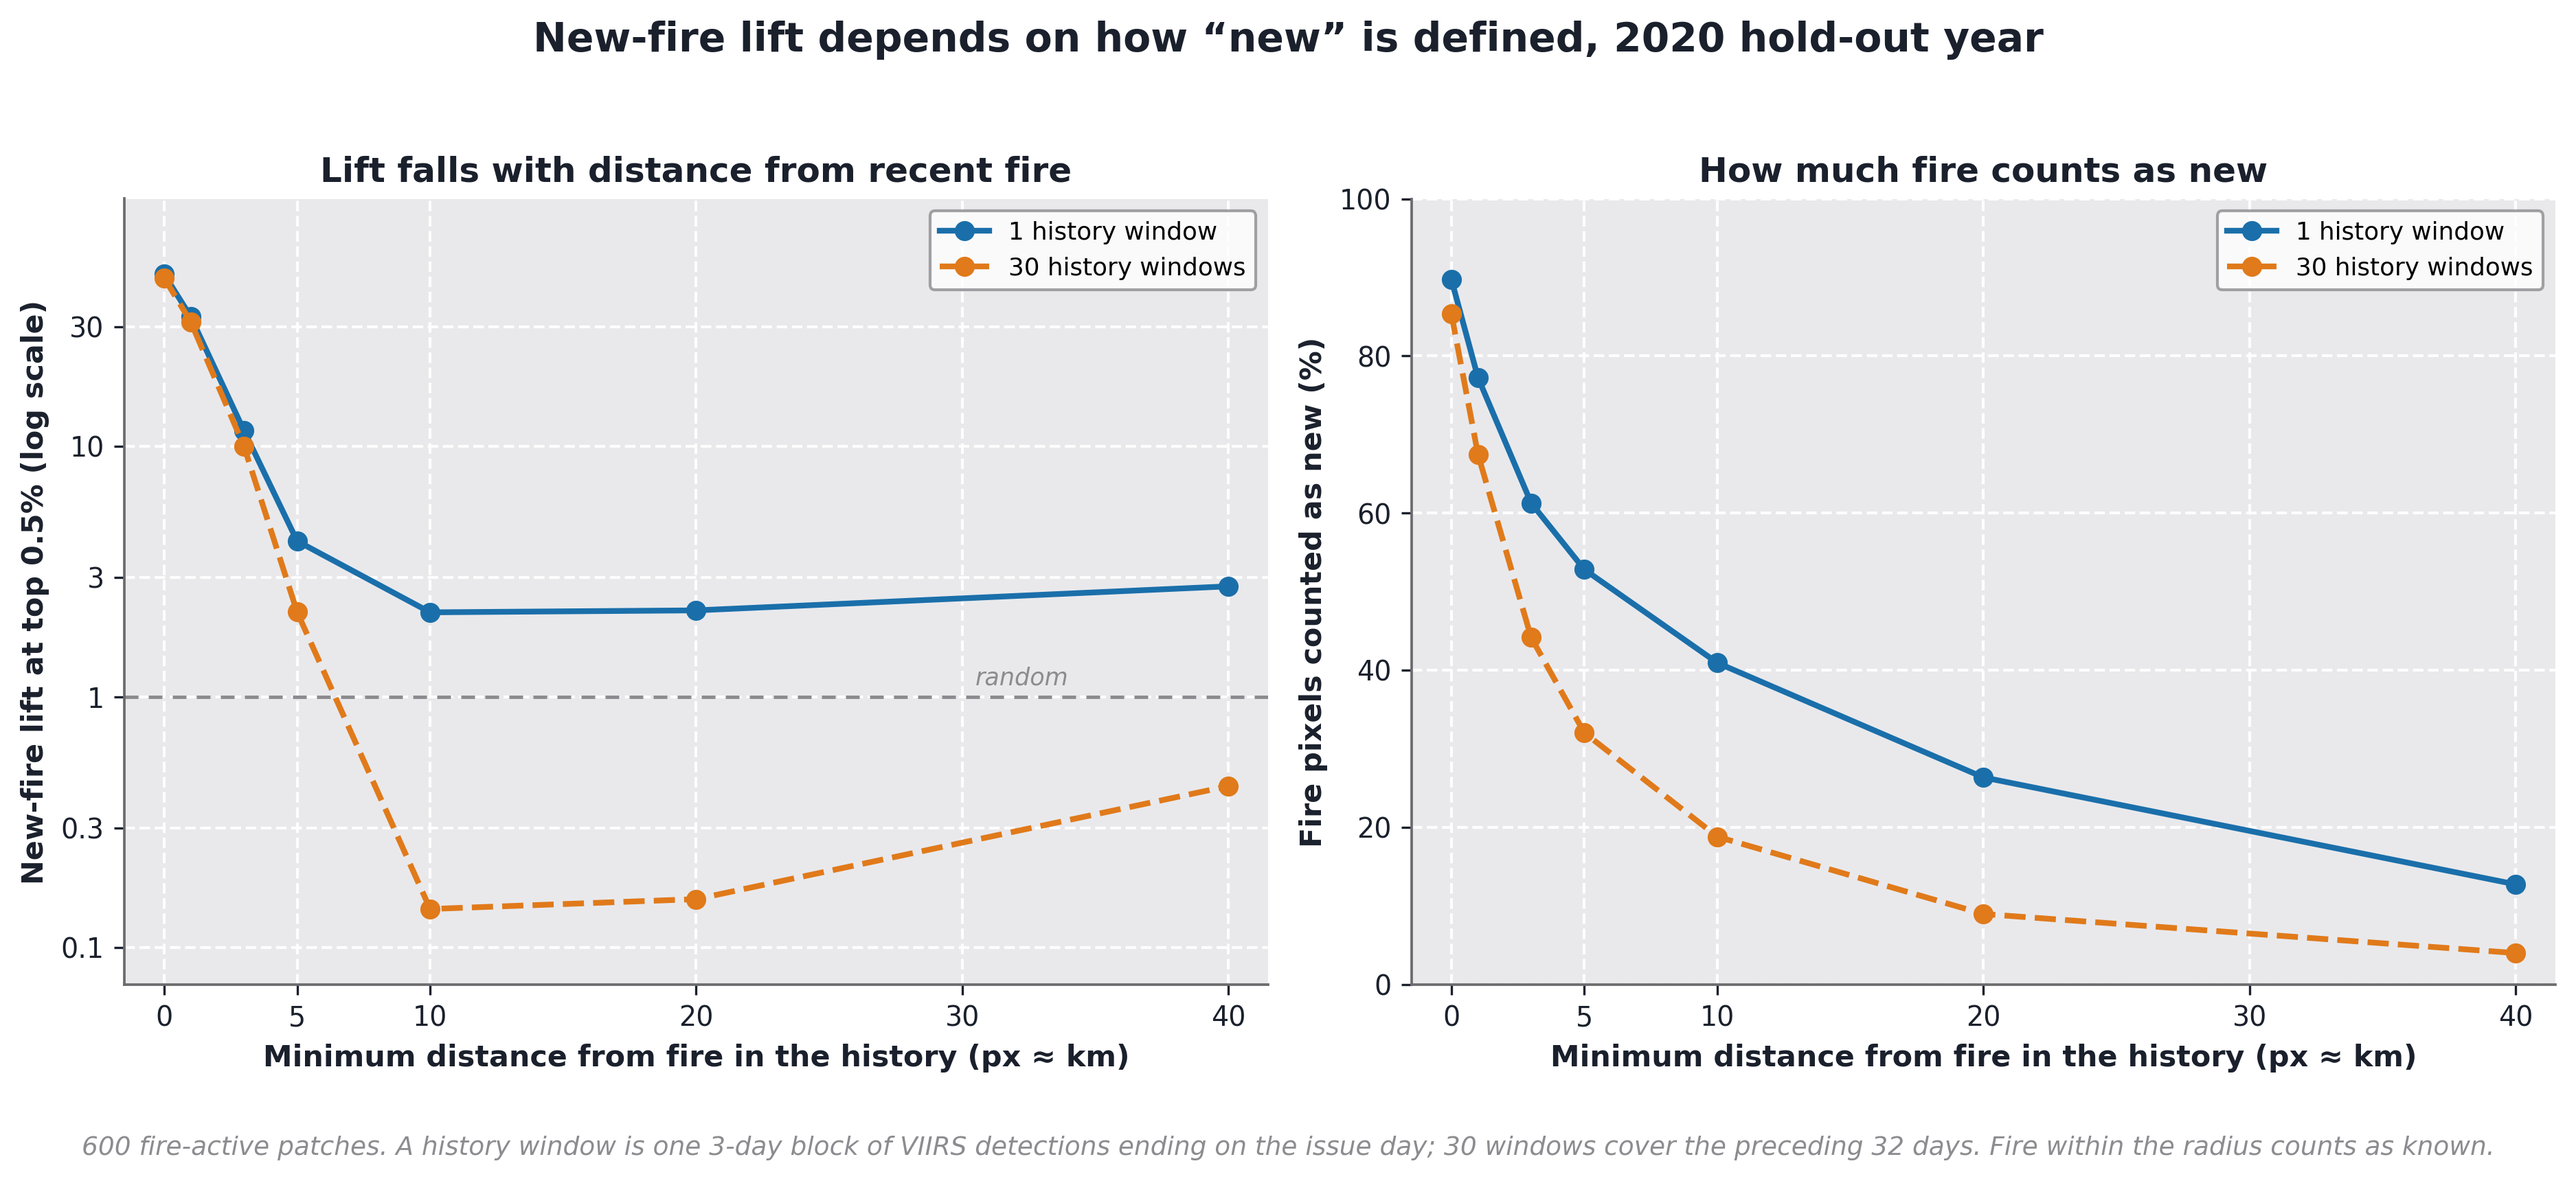
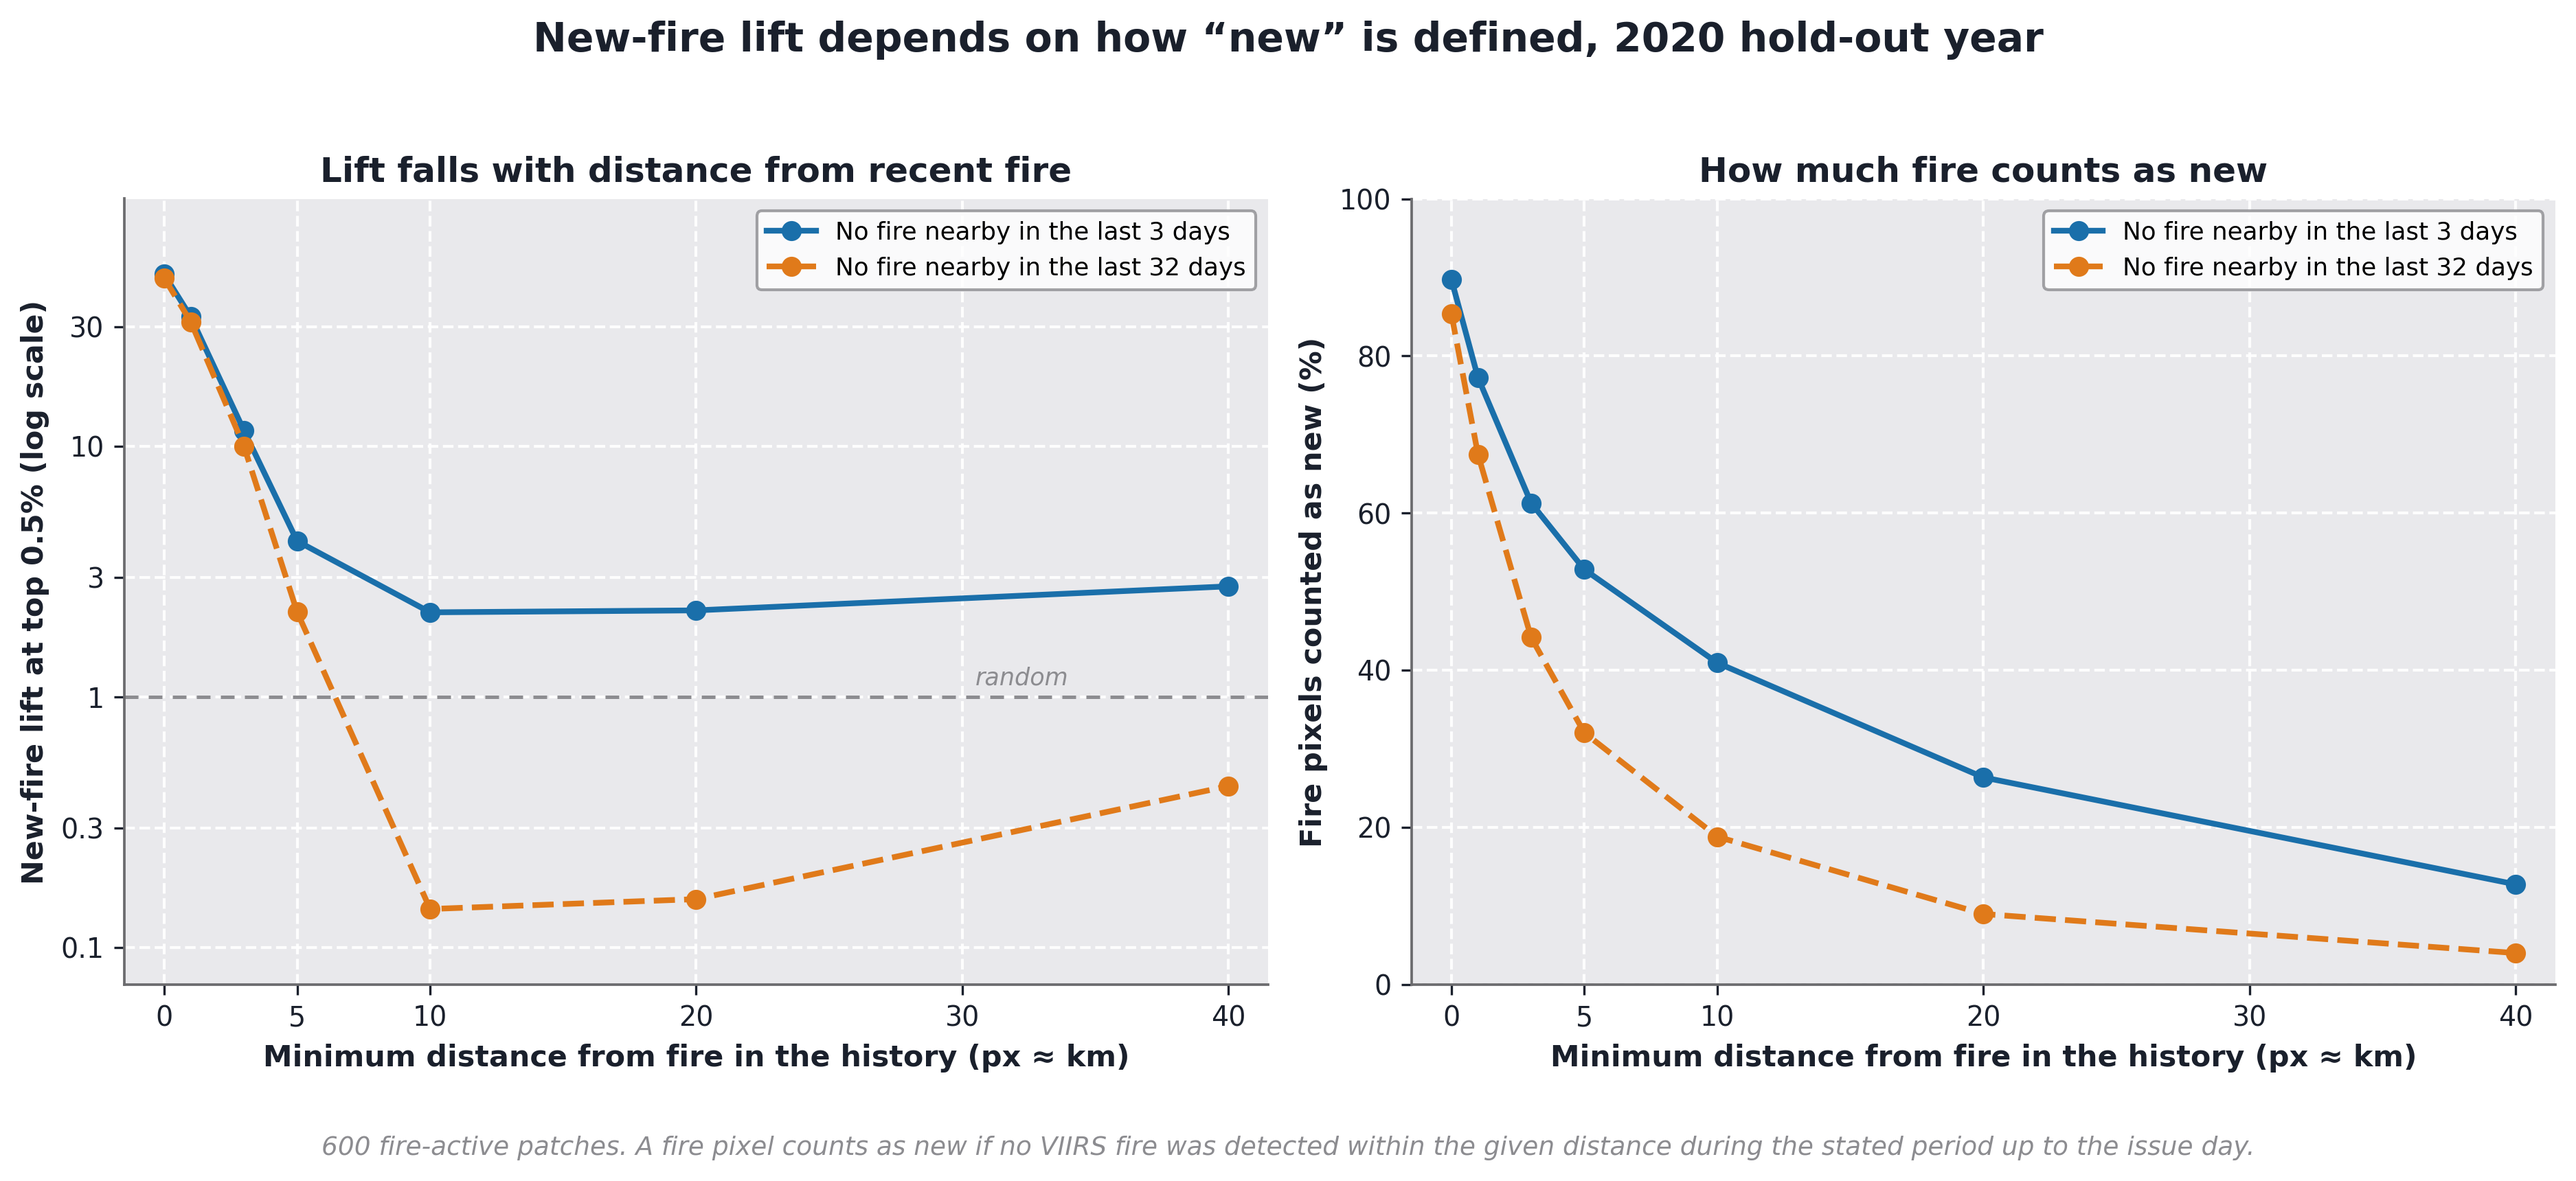
Convergence figure shows loss; clearer new-fire definitions
The convergence figure now shows training and validation loss (flat from
epoch 8) next to validation AP. The distance figure and README describe the
new-fire reference as 'no fire nearby in the last 3 / 32 days' instead of
history windows.

Changed region(s): [[0.0312, 0.9552, 0.9672, 0.986], [0.78, 0.1849, 0.9672, 0.2465], [0.2808, 0.1849, 0.468, 0.2465]]

diff --git a/figures/make_convergence_figure.py b/figures/make_convergence_figure.py
@@ -1,5 +1,6 @@
-"""Validation AP (2019) per epoch of the SMOLDER training run
-(results/training_curve.csv; in_swa marks the averaged checkpoints)."""
+"""SMOLDER training convergence (results/training_curve.csv):
+(a) training and validation loss, (b) validation average precision (2019).
+in_swa marks the checkpoints averaged into the released model."""
 import os
 
 import matplotlib
@@ -11,30 +12,49 @@ from style_smolder import ACCENT, ACCENT2, INK, MUTED, new_figure, style_axes
 
 HERE = os.path.dirname(os.path.abspath(__file__))
 C = pd.read_csv(os.path.join(HERE, "..", "results", "training_curve.csv"))
-T_MAX = 25
+ANNEAL = 8          # positive-class weight annealed 100 -> 20 over epochs 0-7
 
-fig = new_figure((10.5, 5.6))
-ax = fig.add_subplot(111)
-ax.plot(C.epoch, C.val_ap, "-", color=ACCENT, lw=2.0, zorder=3)
-ax.plot(C.epoch, C.val_ap, "o", color=ACCENT, ms=4.2, zorder=4, markerfacecolor="white",
-        markeredgewidth=1.4)
+fig = new_figure((13.0, 5.2))
+axA = fig.add_subplot(121)
+axB = fig.add_subplot(122)
+xmax = C.epoch.max()
+
+for ax in (axA, axB):
+    ax.axvspan(-0.5, ANNEAL - 0.5, color="white", alpha=0.55, zorder=1, lw=0)
+
+axA.plot(C.epoch, C.train_loss, "o-", color=ACCENT, lw=2.0, ms=4.5, label="training", zorder=4)
+axA.plot(C.epoch, C.val_loss, "s--", color=ACCENT2, lw=1.8, ms=4.2, label="validation (2019)", zorder=4)
+lo, hi = min(C.train_loss.min(), C.val_loss.min()), max(C.train_loss.max(), C.val_loss.max())
+axA.set_ylim(np.floor(lo * 5) / 5 - 0.2, np.ceil(hi * 5) / 5 + 0.1)
+axA.set_yticks(np.arange(axA.get_ylim()[0], axA.get_ylim()[1] + 1e-9, 0.2))
+axA.set_ylabel("Loss (weighted BCE)", fontsize=10.5, fontweight="bold", color=INK)
+axA.set_title("(a) Loss", fontsize=12, fontweight="bold", color=INK, loc="left")
+axA.text(ANNEAL / 2 - 0.5, axA.get_ylim()[0] + 0.05, "positive weight\nannealed 100 to 20",
+         ha="center", va="bottom", fontsize=8.2, color=MUTED, style="italic")
+axA.legend(fontsize=9, loc="upper right", frameon=True, facecolor="white", edgecolor=MUTED)
+
+axB.plot(C.epoch, C.val_ap, "o-", color=ACCENT, lw=2.0, ms=4.5, zorder=4, label="validation AP (2019)")
 swa = C[C.in_swa == 1]
-ax.scatter(swa.epoch, swa.val_ap, s=95, facecolor=ACCENT2, edgecolor="white", linewidth=1.3,
-           zorder=5, label="averaged into the released model")
-top = float(C.val_ap.max())
-ax.set_xlim(-0.5, C.epoch.max() + 0.5)
-ax.set_ylim(0, np.ceil(top * 20) / 20 + 0.05)
-ax.set_xticks(np.arange(0, C.epoch.max() + 1, 4))
-ax.set_yticks(np.arange(0, ax.get_ylim()[1] + 1e-9, 0.05))
-if C.epoch.max() > T_MAX:
-    ax.axvline(T_MAX, color=MUTED, lw=1.2, ls=(0, (4, 3)), zorder=2)
-    ax.text(T_MAX + 0.3, 0.01, " learning rate reaches 0\n (cosine period 25 epochs)",
-            fontsize=8.5, color=MUTED, va="bottom", style="italic")
-ax.set_xlabel("Training epoch", fontsize=11, fontweight="bold", color=INK)
-ax.set_ylabel("Average precision, 2019 validation", fontsize=11, fontweight="bold", color=INK)
-style_axes(ax)
-ax.legend(fontsize=9.5, loc="upper left", frameon=True, facecolor="white", edgecolor=MUTED)
-ax.set_title("SMOLDER training convergence", fontsize=13.5, fontweight="bold", color=INK, pad=12)
+axB.scatter(swa.epoch, swa.val_ap, s=90, facecolor=ACCENT2, edgecolor="white", linewidth=1.3,
+            zorder=5, label="averaged into the released model")
+axB.set_ylim(0, np.ceil(C.val_ap.max() * 20) / 20 + 0.05)
+axB.set_yticks(np.arange(0, axB.get_ylim()[1] + 1e-9, 0.05))
+axB.set_ylabel("Average precision", fontsize=10.5, fontweight="bold", color=INK)
+axB.set_title("(b) Validation average precision", fontsize=12, fontweight="bold", color=INK, loc="left")
+axB.legend(fontsize=9, loc="lower right", frameon=True, facecolor="white", edgecolor=MUTED)
+
+for ax in (axA, axB):
+    ax.set_xlim(-0.5, xmax + 0.5)
+    ax.set_xticks(np.arange(0, xmax + 1, 2))
+    ax.set_xlabel("Training epoch", fontsize=10.5, fontweight="bold", color=INK)
+    style_axes(ax)
+
+fig.suptitle("SMOLDER training convergence", fontsize=13.5, fontweight="bold", color=INK, y=1.02)
+fig.text(0.5, -0.03,
+         "Both losses are flat from epoch 8, when the positive-class weight reaches its final value; "
+         "early stopping ended training at epoch 19. Validation AP varies between epochs because fire is rare "
+         "in the randomly drawn validation patches.",
+         ha="center", fontsize=8.8, color=MUTED, style="italic", wrap=True)
 fig.tight_layout()
 fig.savefig(os.path.join(HERE, "fig_convergence.png"), dpi=300, bbox_inches="tight", facecolor="white")
 print("wrote fig_convergence.png")

diff --git a/figures/make_newfire_decay_figure.py b/figures/make_newfire_decay_figure.py
@@ -14,7 +14,7 @@ HERE = os.path.dirname(os.path.abspath(__file__))
 S = json.load(open(os.path.join(HERE, "..", "results", "newfire_sweep_2020.json")))
 RADII = np.array(S["radii_px"])
 lift = next(iter(S["lift"].values()))
-SHOW = ((1, "1 history window", ACCENT, "o-"), (30, "30 history windows", ACCENT2, "o--"))
+SHOW = ((1, "No fire nearby in the last 3 days", ACCENT, "o-"), (30, "No fire nearby in the last 32 days", ACCENT2, "o--"))
 
 fig = new_figure((12.6, 5.1))
 axA = fig.add_subplot(121)
@@ -47,8 +47,8 @@ for ax in (axA, axB):
 fig.suptitle("New-fire lift depends on how “new” is defined, 2020 hold-out year",
              fontsize=14, fontweight="bold", color=INK, y=1.03)
 fig.text(0.5, -0.05,
-         f"{S['n_patches']} fire-active patches. A history window is one 3-day block of VIIRS detections ending on the "
-         "issue day; 30 windows cover the preceding 32 days. Fire within the radius counts as known.",
+         f"{S['n_patches']} fire-active patches. A fire pixel counts as new if no VIIRS fire was detected within the "
+         "given distance during the stated period up to the issue day.",
          ha="center", fontsize=9, color=MUTED, style="italic", wrap=True)
 fig.tight_layout()
 fig.savefig(os.path.join(HERE, "fig_newfire_distance_decay.png"), dpi=300, bbox_inches="tight",

diff --git a/README.md b/README.md
@@ -107,17 +107,17 @@ percentile, with the top-1 % area outlined.
 
 ## What "new-fire lift" measures
 
-Whether a fire pixel counts as "new" depends on a distance threshold and on
-how much fire history is considered, and the resulting lift depends on both.
+Whether a fire pixel counts as "new" depends on how far it must be from
+earlier fire and how far back "earlier" reaches; the lift depends on both.
 
 ![new-fire distance dependence](figures/fig_newfire_distance_decay.png)
 
-With the headline definition (3 px, one history window) 61 % of fire
-pixels count as new and the lift is 11.6×. Requiring 10 px from any fire
-in the same window leaves 41 % of fire pixels at a lift of 2.2×.
-Extending the history to 30 windows (32 days) at 10 px leaves 19 % of
-fire pixels, and the lift falls to 0.14×, below random: fire that is
-far from anything that burned in the past month is not anticipated.
+With the headline definition (no fire within 3 px in the last 3 days)
+61 % of fire pixels count as new and the lift is 11.6×. Requiring no fire
+within 10 px in the last 3 days leaves 41 % of fire pixels at a lift of
+2.2×. Requiring no fire within 10 px in the last 32 days leaves 19 % of
+fire pixels, and the lift falls to 0.14×, below random: fire far from
+anything that burned in the past month is not anticipated.
 
 ## Limitations
 
